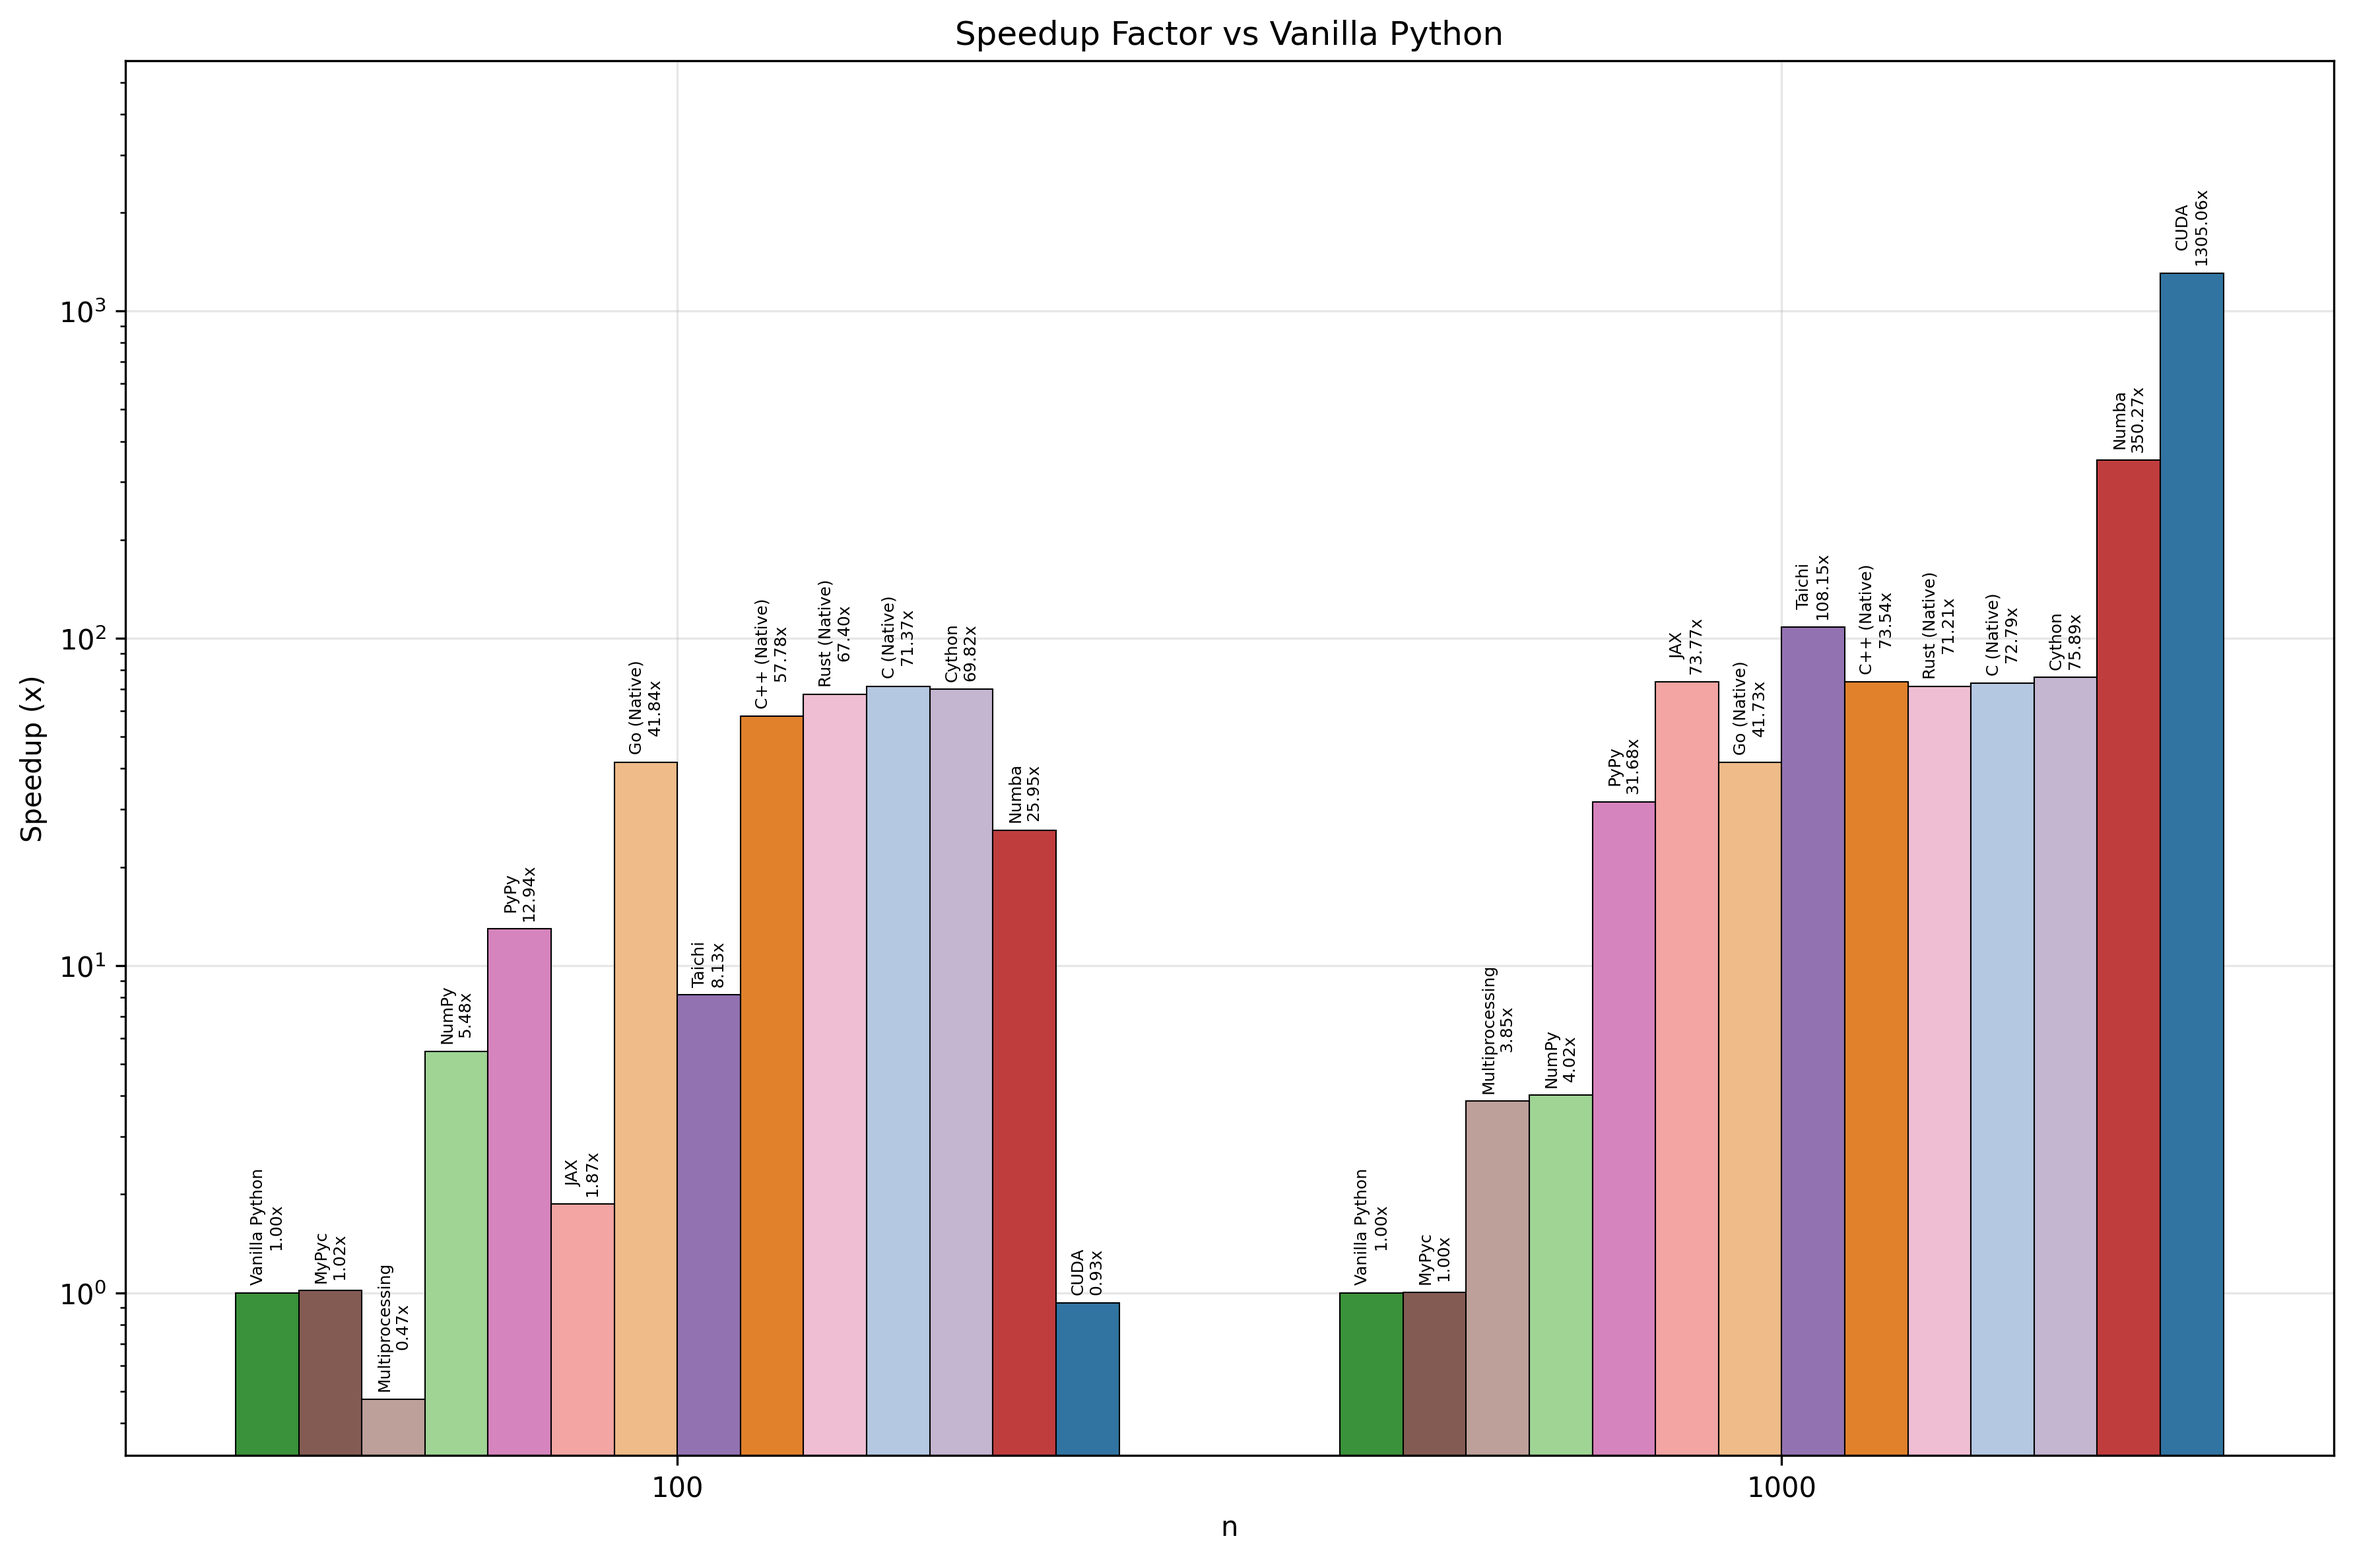
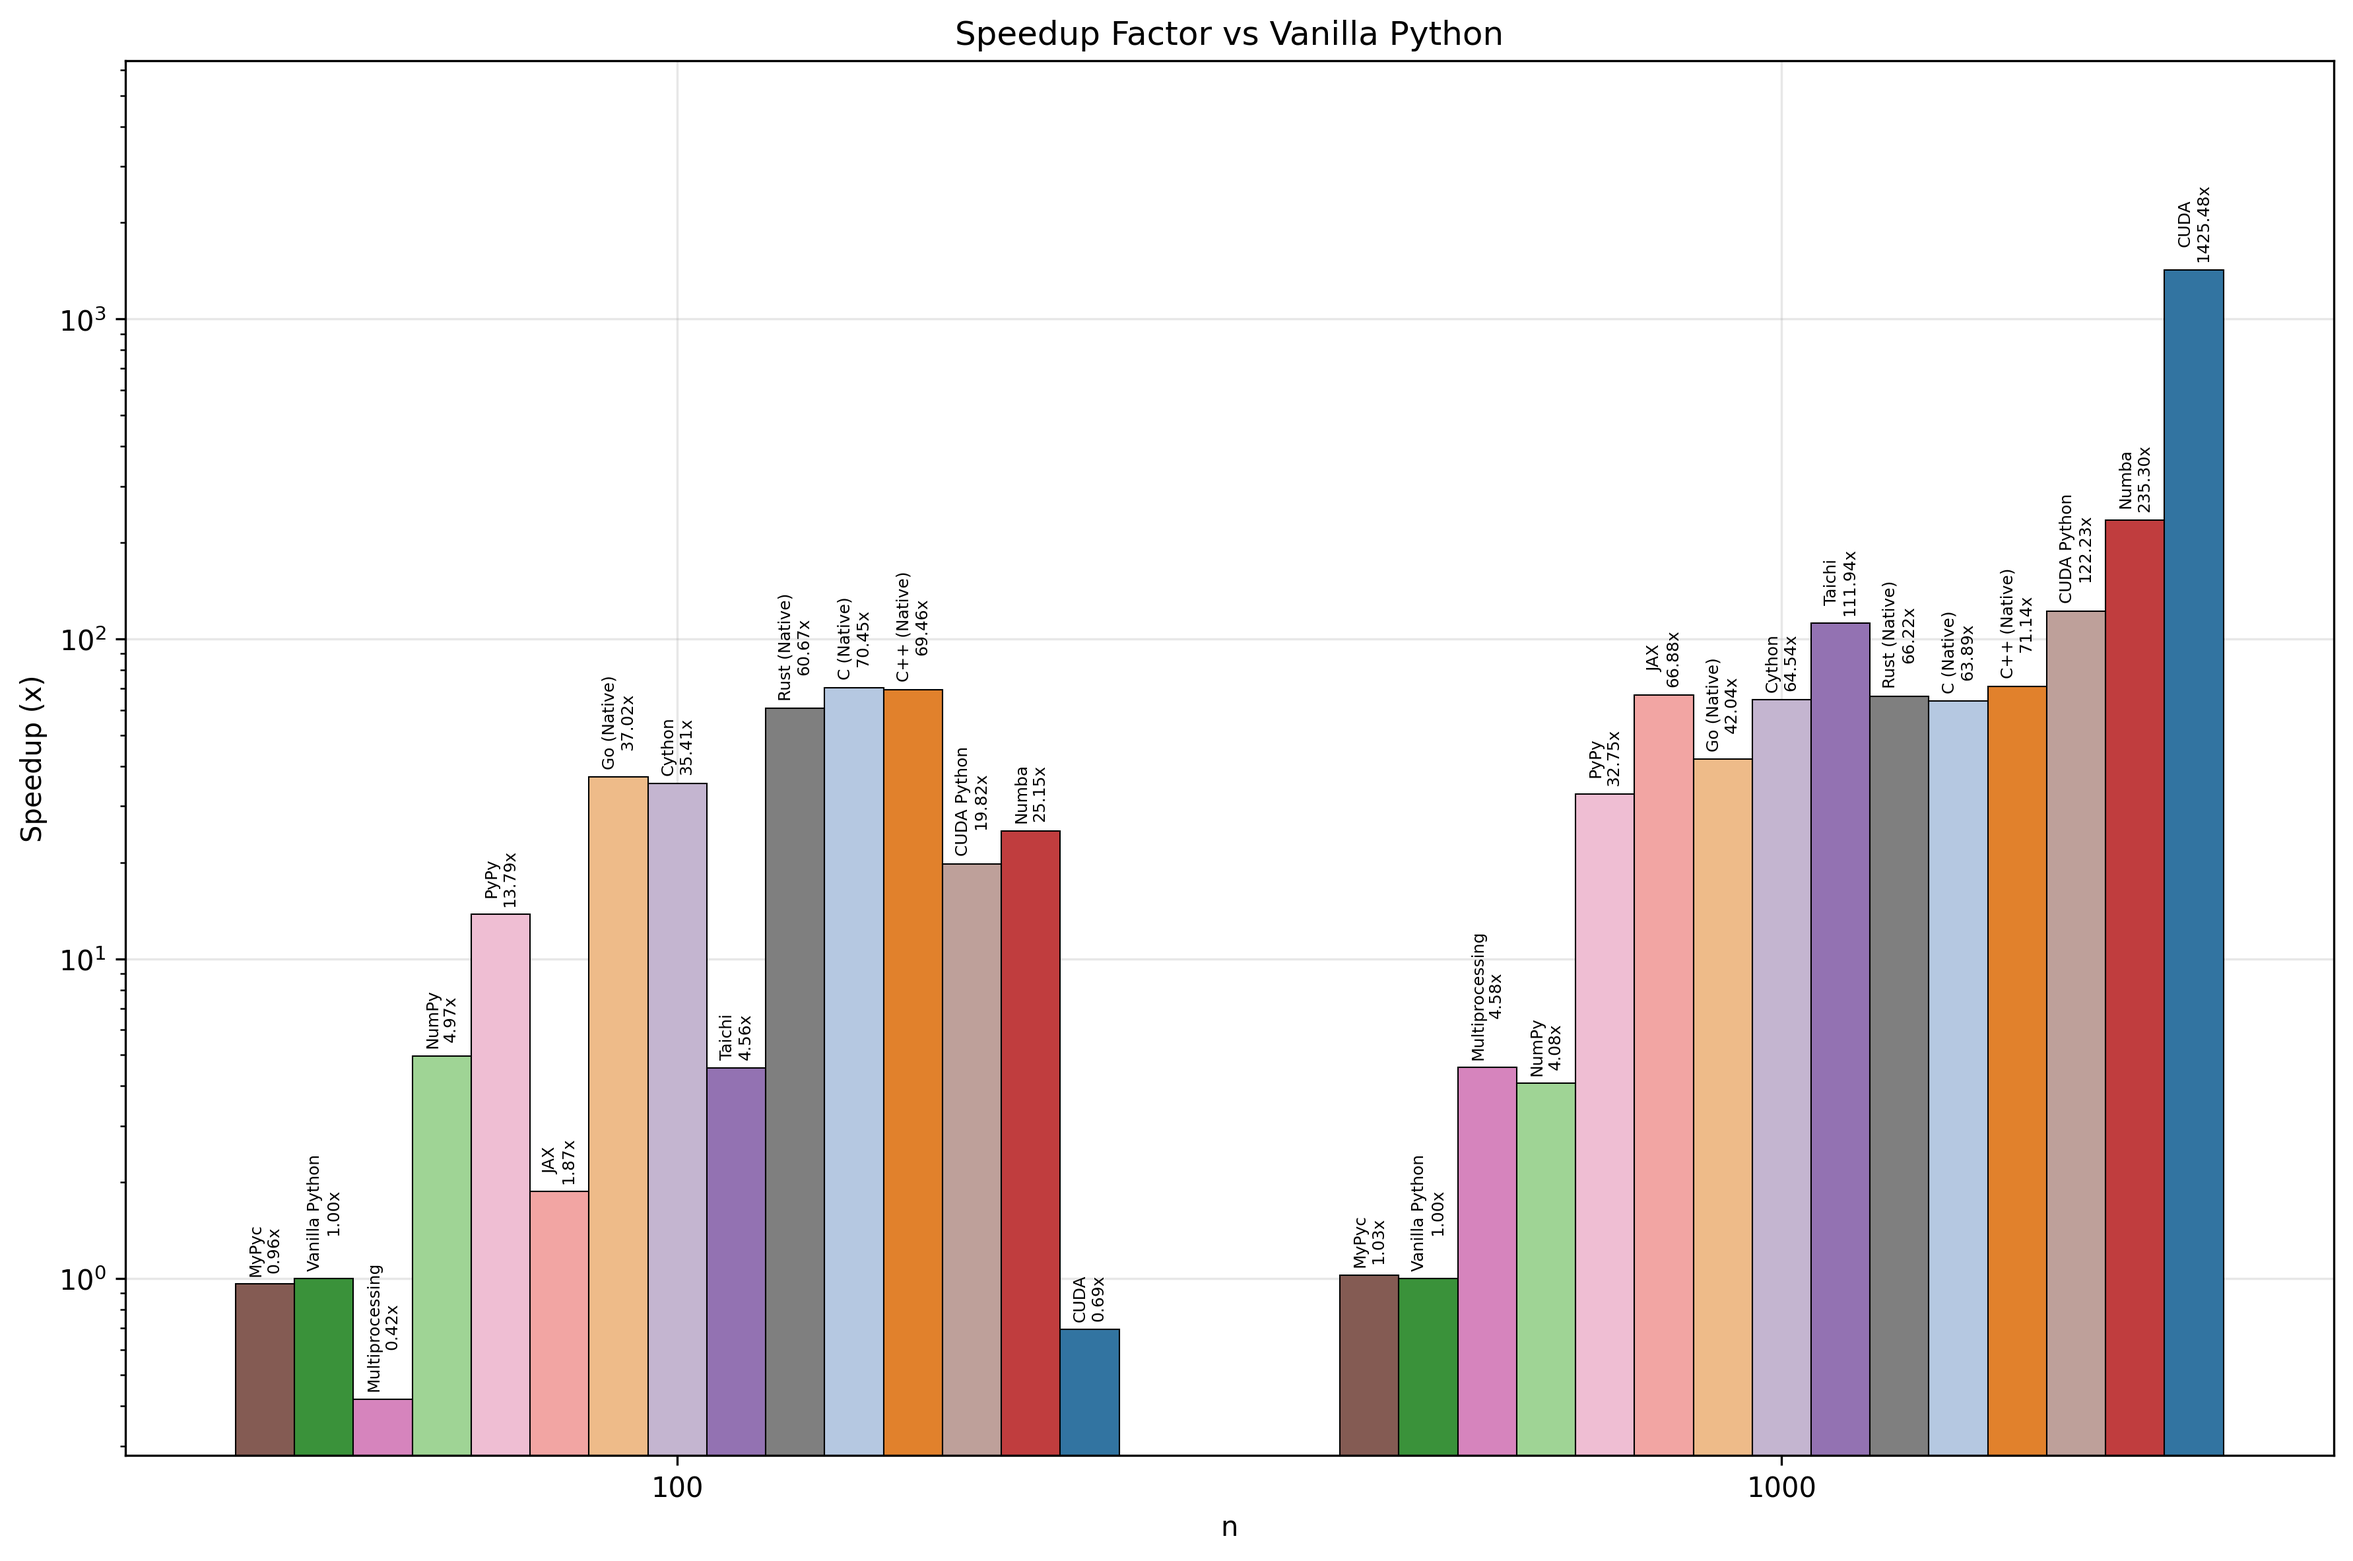
feat: Add CUDA Python implementation and integrate it into the N-body benchmark suite with updated Docker and GPU support.

diff --git a/src/python/cuda_impl.py b/src/python/cuda_impl.py
@@ -1,0 +1,106 @@
+import argparse
+import time
+import numpy as np
+import math
+from numba import cuda
+
+@cuda.jit
+def compute_forces_kernel(pos, vel, mass, dt, soft_epsilon):
+    i = cuda.grid(1)
+    n = pos.shape[0]
+    
+    if i < n:
+        fx = 0.0
+        fy = 0.0
+        fz = 0.0
+        
+        x1 = pos[i, 0]
+        y1 = pos[i, 1]
+        z1 = pos[i, 2]
+        
+        for j in range(n):
+            if i == j:
+                continue
+            
+            dx = pos[j, 0] - x1
+            dy = pos[j, 1] - y1
+            dz = pos[j, 2] - z1
+            
+            dist_sq = dx*dx + dy*dy + dz*dz + soft_epsilon
+            dist = math.sqrt(dist_sq)
+            f = mass[j, 0] / (dist_sq * dist)
+            
+            fx += f * dx
+            fy += f * dy
+            fz += f * dz
+        
+        vel[i, 0] += fx * dt
+        vel[i, 1] += fy * dt
+        vel[i, 2] += fz * dt
+
+@cuda.jit
+def update_positions_kernel(pos, vel, dt):
+    i = cuda.grid(1)
+    n = pos.shape[0]
+    
+    if i < n:
+        pos[i, 0] += vel[i, 0] * dt
+        pos[i, 1] += vel[i, 1] * dt
+        pos[i, 2] += vel[i, 2] * dt
+
+def run_simulation(n_bodies, n_steps, dt=0.01, soft_epsilon=1e-9):
+    # Initialize implementation using standard numpy
+    np.random.seed(42)
+    pos = np.random.uniform(-100, 100, (n_bodies, 3)).astype(np.float32)
+    vel = np.random.uniform(-1, 1, (n_bodies, 3)).astype(np.float32)
+    mass = np.random.uniform(1, 10, (n_bodies, 1)).astype(np.float32)
+    
+    # Check for CUDA
+    if not cuda.is_available():
+        raise RuntimeError("CUDA is not available on this system.")
+
+    # Transfer to device
+    d_pos = cuda.to_device(pos)
+    d_vel = cuda.to_device(vel)
+    d_mass = cuda.to_device(mass)
+    
+    threadsperblock = 256
+    blockspergrid = (n_bodies + (threadsperblock - 1)) // threadsperblock
+    
+    # Warmup compilation
+    compute_forces_kernel[blockspergrid, threadsperblock](d_pos, d_vel, d_mass, dt, soft_epsilon)
+    update_positions_kernel[blockspergrid, threadsperblock](d_pos, d_vel, dt)
+    cuda.synchronize()
+    
+    start_time = time.time()
+    
+    for _ in range(n_steps):
+        compute_forces_kernel[blockspergrid, threadsperblock](d_pos, d_vel, d_mass, dt, soft_epsilon)
+        update_positions_kernel[blockspergrid, threadsperblock](d_pos, d_vel, dt)
+    
+    cuda.synchronize()
+    end_time = time.time()
+    
+    # Optional: copy back if needed for verification
+    # pos = d_pos.copy_to_host()
+    
+    return end_time - start_time
+
+if __name__ == "__main__":
+    parser = argparse.ArgumentParser(description="Numba CUDA N-body benchmark")
+    parser.add_argument("--n", type=int, default=100, help="Number of bodies")
+    parser.add_argument("--steps", type=int, default=100, help="Number of steps")
+    args = parser.parse_args()
+
+    try:
+        if not cuda.is_available():
+           print("CUDA not detected. Exiting.")
+           exit(1)
+
+        print(f"Running Numba CUDA N-body with N={args.n}, Steps={args.steps}")
+        duration = run_simulation(args.n, args.steps)
+        print(f"Time: {duration:.4f} seconds")
+        print(f"RESULT: {duration}")
+    except Exception as e:
+        print(f"Error: {e}")
+        exit(1)

diff --git a/bench_runner.py b/bench_runner.py
@@ -108,6 +108,7 @@ if __name__ == "__main__":
         (["python", "src/python/taichi_impl.py"], "Taichi", "python"),
         (["python", "src/python/cython_runner.py"], "Cython", "python"),
         (["python", "src/python/mypyc_runner.py"], "MyPyc", "python"),
+        (["python", "src/python/cuda_impl.py"], "CUDA Python", "python"),
         (["python", "src/python/mp_impl.py"], "Multiprocessing", "python"),
         (["pypy3", "src/python/baseline.py"], "PyPy", "python"),
         # Native binaries
